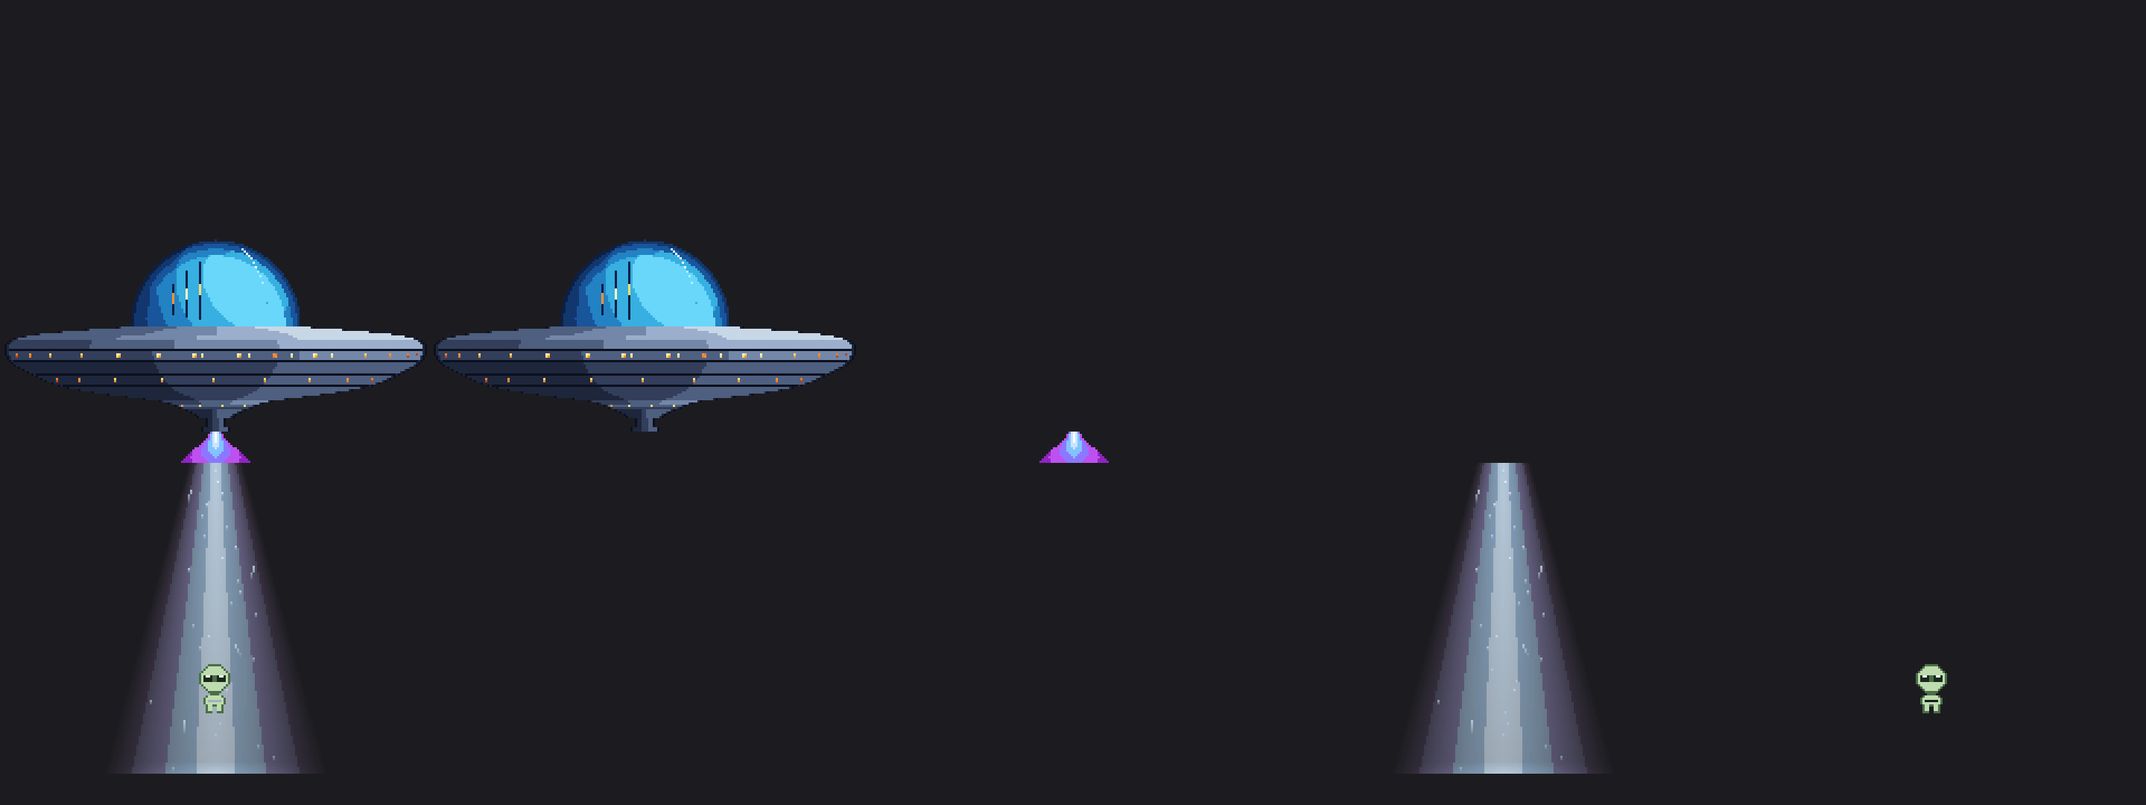
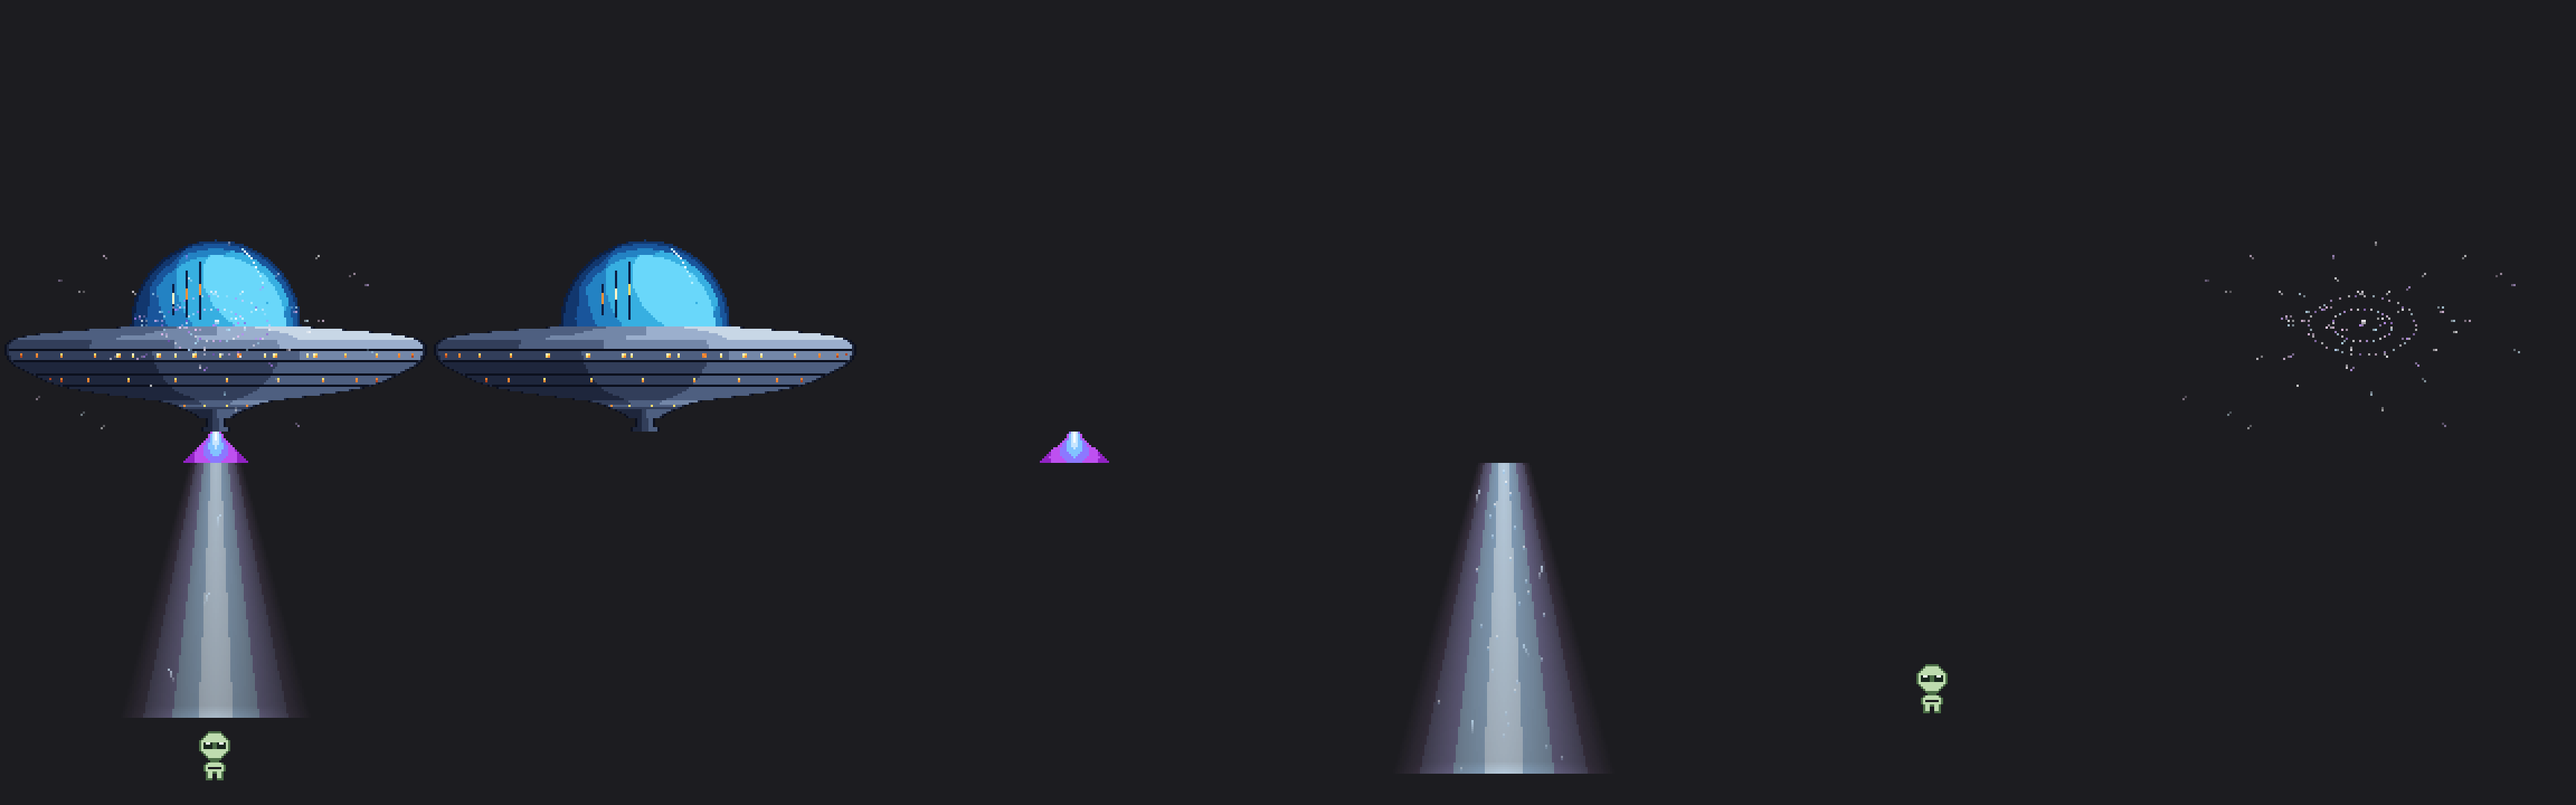
Add poof layer: magical portal materialization effect
A new "poof" layer that plays frames 0-31 of the loop and overlays a
magical portal effect on top of the UFO:
- central flash that pops then fades into the dome
- three spinning elliptical rings expanding outward, each in a different
  hue (white, cyan, purple, pink) and starting on a staggered delay
- 70 outward-flying sparkles with deterministic angles and per-particle
  trail pixels

Renders cleanly into output/ufo_layer_poof.gif as a standalone
transparent-canvas layer. The HTML viewer gains a Poof toggle and
Solo Poof button alongside the existing UFO/Plume/Beam/Alien controls.

diff --git a/ufo-animated.html b/ufo-animated.html
@@ -66,6 +66,8 @@ const C = {
   PLASMA_DEEP: [90,18,130],
   ALIEN_LIGHT: [190,220,175], ALIEN_MID: [130,170,115], ALIEN_DARK: [75,110,70], ALIEN_VOID: [25,40,30],
   GLINT: [245,255,245],
+  POOF_CORE: [255,255,255], POOF_WHITE: [255,245,255], POOF_CYAN: [180,230,255],
+  POOF_PINK: [255,200,255], POOF_PURPLE: [190,130,255], POOF_DEEP: [140,70,220], POOF_VOID: [70,30,130],
 };
 
 // Light direction (3D world coords)
@@ -537,6 +539,80 @@ function drawAlien(put, frame) {
   for (const [gx, gy] of positions) put(left + gx, top + gy, C.GLINT, a8);
 }
 
+// ── Magic-portal poof — plays at the start of the loop ─
+const POOF_DURATION = 32;
+const POOF_CX = HCX;
+const POOF_CY = 145;
+const POOF_RING_COLORS = [C.POOF_WHITE, C.POOF_CYAN, C.POOF_PURPLE, C.POOF_PINK, C.POOF_CORE, C.POOF_DEEP];
+const POOF_SPARK_COLORS = [C.POOF_CORE, C.POOF_WHITE, C.POOF_CYAN, C.POOF_PINK, C.POOF_PURPLE];
+
+function drawPoof(put, frame) {
+  if (frame >= POOF_DURATION) return;
+  const t = frame / POOF_DURATION;
+  // Central flash
+  const flashT = Math.min(1.0, frame / 8.0);
+  const flashAlpha = Math.max(0, 1 - flashT);
+  if (flashAlpha > 0) {
+    const radius = Math.round(6 + (1 - flashAlpha) * 14);
+    for (let dy = -radius; dy <= radius; dy++) {
+      for (let dx = -radius; dx <= radius; dx++) {
+        const d = Math.sqrt(dx * dx + dy * dy);
+        if (d > radius) continue;
+        const edge = 1 - d / radius;
+        let col;
+        if      (edge > 0.85) col = C.POOF_CORE;
+        else if (edge > 0.60) col = C.POOF_WHITE;
+        else if (edge > 0.35) col = C.POOF_CYAN;
+        else if (edge > 0.15) col = C.POOF_PURPLE;
+        else                  col = C.POOF_DEEP;
+        const a = Math.round(255 * edge * flashAlpha);
+        if (a > 0) put(POOF_CX + dx, POOF_CY + dy, col, a);
+      }
+    }
+  }
+  // Expanding spinning rings
+  const N_RINGS = 3;
+  for (let r = 0; r < N_RINGS; r++) {
+    const ringDelay = r * 0.12;
+    const ringT = Math.max(0, t - ringDelay);
+    if (ringT <= 0) continue;
+    const radius = ringT * (95 + r * 8);
+    const alpha = Math.max(0, 1 - ringT * 1.5);
+    if (alpha < 0.05 || radius < 3) continue;
+    const n = Math.max(28, Math.round(radius * 1.6));
+    for (let i = 0; i < n; i++) {
+      const angle = (i / n) * TAU + frame * (0.10 + r * 0.05);
+      const rx = POOF_CX + Math.round(radius * Math.cos(angle));
+      const ry = POOF_CY + Math.round(radius * Math.sin(angle) * 0.55);
+      const col = POOF_RING_COLORS[(i + r * 7) % POOF_RING_COLORS.length];
+      const a = Math.round(255 * alpha * 0.75);
+      put(rx, ry, col, a);
+    }
+  }
+  // Outward-flying sparkles
+  const N_SPARKS = 70;
+  for (let i = 0; i < N_SPARKS; i++) {
+    const sparkOffset = i * 0.018;
+    const phase = (sparkOffset + t * 0.9) % 1.0;
+    if (phase > 0.85) continue;
+    let rng = ((Math.sin(i * 12.9898 + 78.233) * 43758.5453) % 1 + 1) % 1;
+    let rng2 = ((Math.sin(i * 9.7777 + 22.111) * 12345.6789) % 1 + 1) % 1;
+    const angle = rng * TAU;
+    const distScale = 70 + rng2 * 50;
+    const dist = phase * distScale;
+    const sx = POOF_CX + Math.round(dist * Math.cos(angle));
+    const sy = POOF_CY + Math.round(dist * Math.sin(angle) * 0.6);
+    const sparkAlpha = Math.pow(1 - phase, 0.7) * (1 - t * 0.4);
+    const col = POOF_SPARK_COLORS[i % POOF_SPARK_COLORS.length];
+    const a = Math.round(255 * sparkAlpha);
+    if (a <= 0) continue;
+    put(sx, sy, col, a);
+    const tx = POOF_CX + Math.round((dist - 1.5) * Math.cos(angle));
+    const ty = POOF_CY + Math.round((dist - 1.5) * Math.sin(angle) * 0.6);
+    put(tx, ty, col, Math.floor(a / 2));
+  }
+}
+
 function buildFrame(frame, buf, layers) {
   buf.fill(0);
   const put = makePut(buf);
@@ -551,6 +627,8 @@ function buildFrame(frame, buf, layers) {
     drawDomeSlits(put, frame);
   }
   if (layers.plume) drawPlume(put, frame);
+  // Poof on top — magical portal overlay over everything
+  if (layers.poof) drawPoof(put, frame);
 }
 
 // ── React component ───────────────────────────────────
@@ -562,6 +640,7 @@ function App() {
   const [showPlume, setShowPlume] = useState(true);
   const [showBeam, setShowBeam] = useState(true);
   const [showAlien, setShowAlien] = useState(true);
+  const [showPoof, setShowPoof] = useState(true);
   const canvasRef = useRef(null);
   const offRef = useRef(null);
   const bufRef = useRef(null);
@@ -588,20 +667,21 @@ function App() {
     if (!canvas) return;
     const ctx = canvas.getContext('2d');
     ctx.imageSmoothingEnabled = false;
-    buildFrame(frame, bufRef.current, { ufo: showUfo, plume: showPlume, beam: showBeam, alien: showAlien });
+    buildFrame(frame, bufRef.current, { ufo: showUfo, plume: showPlume, beam: showBeam, alien: showAlien, poof: showPoof });
     const offCtx = offRef.current.getContext('2d');
     offCtx.putImageData(new ImageData(bufRef.current, W, H), 0, 0);
     ctx.clearRect(0, 0, W * SCALE, H * SCALE);
     ctx.drawImage(offRef.current, 0, 0, W * SCALE, H * SCALE);
-  }, [frame, showUfo, showPlume, showBeam, showAlien]);
+  }, [frame, showUfo, showPlume, showBeam, showAlien, showPoof]);
 
   const setSoloLayer = (layer) => {
     setShowUfo(layer === 'ufo');
     setShowPlume(layer === 'plume');
     setShowBeam(layer === 'beam');
     setShowAlien(layer === 'alien');
+    setShowPoof(layer === 'poof');
   };
-  const showAll = () => { setShowUfo(true); setShowPlume(true); setShowBeam(true); setShowAlien(true); };
+  const showAll = () => { setShowUfo(true); setShowPlume(true); setShowBeam(true); setShowAlien(true); setShowPoof(true); };
 
   return (
     <div className="root">
@@ -628,11 +708,13 @@ function App() {
         <button className={showPlume ? 'on' : ''} onClick={() => setShowPlume(v => !v)}>Plume</button>
         <button className={showBeam  ? 'on' : ''} onClick={() => setShowBeam(v => !v)}>Beam</button>
         <button className={showAlien ? 'on' : ''} onClick={() => setShowAlien(v => !v)}>Alien</button>
+        <button className={showPoof  ? 'on' : ''} onClick={() => setShowPoof(v => !v)}>Poof</button>
         <span style={{width: 12}}/>
         <button onClick={() => setSoloLayer('ufo')}>Solo UFO</button>
         <button onClick={() => setSoloLayer('plume')}>Solo Plume</button>
         <button onClick={() => setSoloLayer('beam')}>Solo Beam</button>
         <button onClick={() => setSoloLayer('alien')}>Solo Alien</button>
+        <button onClick={() => setSoloLayer('poof')}>Solo Poof</button>
         <button onClick={showAll}>All on</button>
       </div>
       <div style={{maxWidth: 600, color: '#778', fontSize: 11, lineHeight: 1.5, textAlign: 'center'}}>

diff --git a/build_ufo_anim.py b/build_ufo_anim.py
@@ -43,6 +43,15 @@ ALIEN_DARK  = (75, 110, 70)     # shadow/outline
 ALIEN_VOID  = (25, 40, 30)      # eye holes / deep outline
 GROUND_DARK = (45, 50, 60)      # subtle ground line
 
+# Poof / magic-portal palette
+POOF_CORE   = (255, 255, 255)
+POOF_WHITE  = (255, 245, 255)
+POOF_CYAN   = (180, 230, 255)
+POOF_PINK   = (255, 200, 255)
+POOF_PURPLE = (190, 130, 255)
+POOF_DEEP   = (140, 70, 220)
+POOF_VOID   = (70, 30, 130)
+
 UCX = HCX = 96
 DCX = UCX
 DCY_BASE = 145
@@ -546,7 +555,89 @@ def draw_alien(put, frame):
         put(left + gx, top + gy, GLINT, a=a8)
 
 
-def build_frame(frame, layers=frozenset({'ufo', 'plume', 'beam', 'alien'}), transparent_bg=True):
+POOF_DURATION = 32           # frames of poof animation at the start of the loop
+POOF_CX = HCX
+POOF_CY = 145                # roughly centered on the saucer body
+
+
+def draw_poof(put, frame):
+    """Magic-portal materialization effect over the UFO.
+
+    Plays during frames 0..POOF_DURATION-1, silent the rest of the loop.
+    Combines a central flash, multiple expanding spinning rings, and a
+    burst of sparkles that travel outward and fade.
+    """
+    if frame >= POOF_DURATION:
+        return
+    t = frame / POOF_DURATION
+
+    # ── Central flash ────────────────────────────────
+    flash_t = min(1.0, frame / 8.0)
+    flash_alpha = max(0.0, 1.0 - flash_t)
+    if flash_alpha > 0.0:
+        radius = int(round(6 + (1.0 - flash_alpha) * 14))
+        for dy in range(-radius, radius + 1):
+            for dx in range(-radius, radius + 1):
+                d = math.sqrt(dx * dx + dy * dy)
+                if d > radius: continue
+                edge = 1.0 - d / radius
+                if   edge > 0.85: col = POOF_CORE
+                elif edge > 0.60: col = POOF_WHITE
+                elif edge > 0.35: col = POOF_CYAN
+                elif edge > 0.15: col = POOF_PURPLE
+                else:             col = POOF_DEEP
+                a = int(255 * edge * flash_alpha)
+                if a > 0:
+                    put(POOF_CX + dx, POOF_CY + dy, col, a=a)
+
+    # ── Expanding spinning rings ─────────────────────
+    RING_COLORS = [POOF_WHITE, POOF_CYAN, POOF_PURPLE, POOF_PINK, POOF_CORE, POOF_DEEP]
+    n_rings = 3
+    for r_idx in range(n_rings):
+        ring_delay = r_idx * 0.12
+        ring_t = max(0.0, t - ring_delay)
+        if ring_t <= 0: continue
+        ring_radius = ring_t * (95 + r_idx * 8)
+        ring_alpha = max(0.0, 1.0 - ring_t * 1.5)
+        if ring_alpha < 0.05 or ring_radius < 3: continue
+        n_points = max(28, int(ring_radius * 1.6))
+        for i in range(n_points):
+            angle = (i / n_points) * TAU + frame * (0.10 + r_idx * 0.05)
+            rx = POOF_CX + int(round(ring_radius * math.cos(angle)))
+            ry = POOF_CY + int(round(ring_radius * math.sin(angle) * 0.55))
+            col = RING_COLORS[(i + r_idx * 7) % len(RING_COLORS)]
+            a = int(255 * ring_alpha * 0.75)
+            put(rx, ry, col, a=a)
+
+    # ── Outward-flying sparkles ──────────────────────
+    SPARK_COLORS = [POOF_CORE, POOF_WHITE, POOF_CYAN, POOF_PINK, POOF_PURPLE]
+    n_sparks = 70
+    for i in range(n_sparks):
+        spark_offset = i * 0.018
+        spark_phase = (spark_offset + t * 0.9) % 1.0
+        if spark_phase > 0.85: continue
+        # Pseudo-random direction
+        rng = (math.sin(i * 12.9898 + 78.233) * 43758.5453) % 1.0
+        if rng < 0: rng += 1
+        rng2 = (math.sin(i * 9.7777 + 22.111) * 12345.6789) % 1.0
+        if rng2 < 0: rng2 += 1
+        angle = rng * TAU
+        dist_scale = 70 + rng2 * 50
+        spark_dist = spark_phase * dist_scale
+        sx = POOF_CX + int(round(spark_dist * math.cos(angle)))
+        sy = POOF_CY + int(round(spark_dist * math.sin(angle) * 0.6))
+        spark_alpha = (1.0 - spark_phase) ** 0.7 * (1.0 - t * 0.4)
+        col = SPARK_COLORS[i % len(SPARK_COLORS)]
+        a = int(255 * spark_alpha)
+        if a > 0:
+            put(sx, sy, col, a=a)
+            # Tiny trail pixel
+            tx = POOF_CX + int(round((spark_dist - 1.5) * math.cos(angle)))
+            ty = POOF_CY + int(round((spark_dist - 1.5) * math.sin(angle) * 0.6))
+            put(tx, ty, col, a=a // 2)
+
+
+def build_frame(frame, layers=frozenset({'ufo', 'plume', 'beam', 'alien', 'poof'}), transparent_bg=True):
     bg = (0, 0, 0, 0) if transparent_bg else (4, 4, 10, 255)
     img = Image.new('RGBA', (W, H), bg)
     PX = img.load()
@@ -565,6 +656,9 @@ def build_frame(frame, layers=frozenset({'ufo', 'plume', 'beam', 'alien'}), tran
         draw_dome_slits(put, frame)
     if 'plume' in layers:
         draw_plume(put, frame)
+    # Poof goes ON TOP — magical portal overlay over everything else
+    if 'poof' in layers:
+        draw_poof(put, frame)
     return img
 
 
@@ -601,7 +695,7 @@ def main():
     os.makedirs('output', exist_ok=True)
 
     # Combined ("all") animation — drives output/ufo_animated.gif
-    all_frames = render_layer_gif('all', {'ufo', 'plume', 'beam', 'alien'})
+    all_frames = render_layer_gif('all', {'ufo', 'plume', 'beam', 'alien', 'poof'})
     shutil.copy('output/ufo_layer_all.gif', 'output/ufo_animated.gif')
     print('wrote output/ufo_animated.gif (alias of layer_all)')
 
@@ -610,12 +704,14 @@ def main():
     plume_frames = render_layer_gif('plume', {'plume'})
     beam_frames  = render_layer_gif('beam',  {'beam'})
     alien_frames = render_layer_gif('alien', {'alien'})
+    poof_frames  = render_layer_gif('poof',  {'poof'})
 
-    # 5-up preview at a representative hold-phase frame
+    # 6-up preview: a snapshot of each layer (poof at its peak, beam at hold)
     hold_frame = (BEAM_EXTEND_END + BEAM_HOLD_END) // 2
-    cols = [all_frames[hold_frame], ufo_frames[hold_frame],
+    poof_peak = 8
+    cols = [all_frames[poof_peak], ufo_frames[hold_frame],
             plume_frames[hold_frame], beam_frames[hold_frame],
-            alien_frames[hold_frame]]
+            alien_frames[hold_frame], poof_frames[poof_peak]]
     sheet = Image.new('RGBA', (W * SCALE * len(cols), H * SCALE), (28, 28, 32, 255))
     for i, s in enumerate(cols):
         sheet.paste(s, (i * W * SCALE, 0), s)
